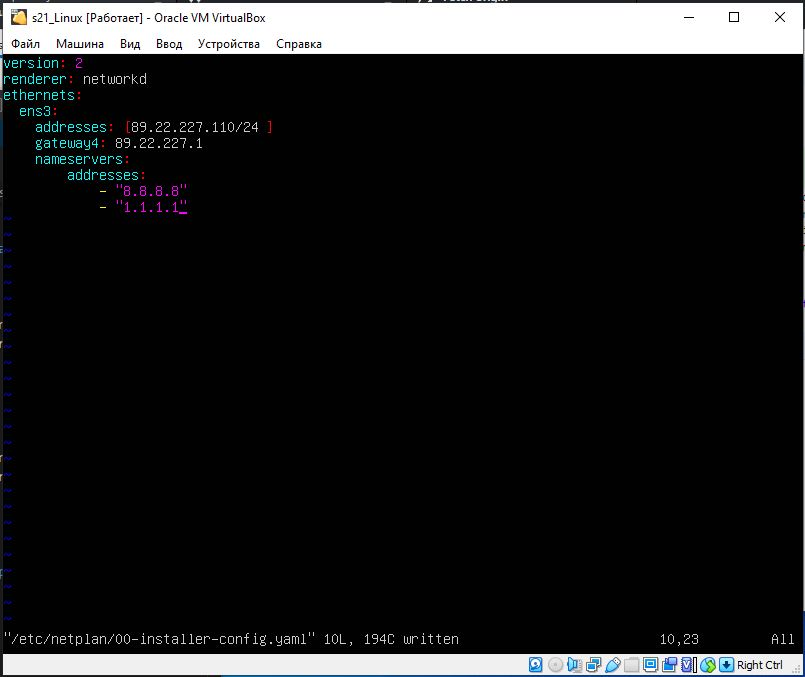
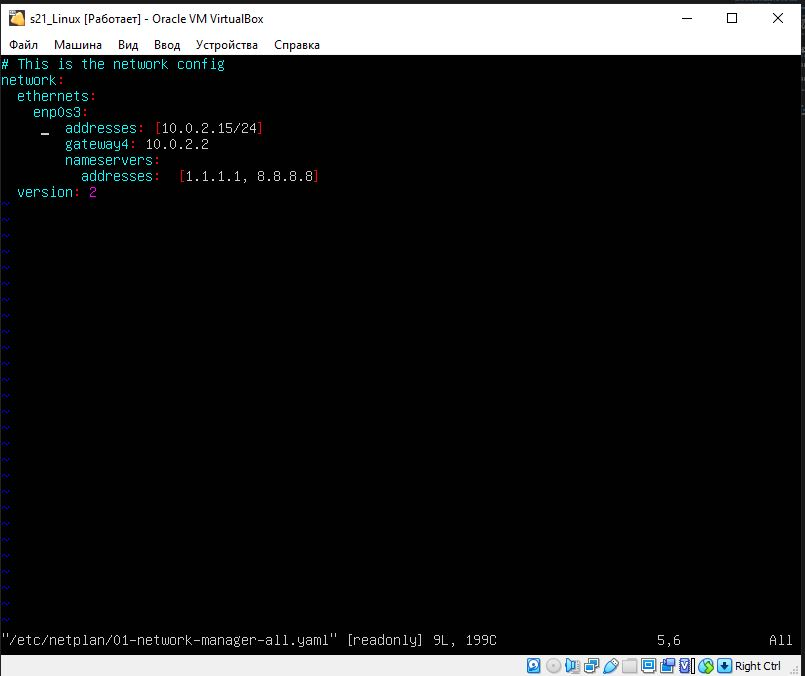
fixed netplan
3

diff --git a/Readme.md b/Readme.md
@@ -36,11 +36,15 @@ cat /etc/passwd
 
 ![ip-a](img/ip-a.JPG)
 
+##### In the report give an explanation for the presence of the lo interface.
+
 Interface lo can be used by network client software to communicate with a server application located on the same computer. That is, if you specify the URL http://127.0.0.1/ or http://localhost/ in the web browser on the computer where the web server is running, it takes you to that computer's web site. This mechanism works without any active connection, so it is useful for testing services without compromising their security as with remote network access.
 
 ##### Use the console command to get the ip address of the device you are working on from the DHCP server.
 
 ![wget](img/wget.JPG)
+
+Decode DHCP in the report.
 
 Dynamic Host Configuration Protocol (DHCP) is a network management protocol used to automate the process of configuring devices on IP networks, thus allowing them to use network services such as DNS, NTP, and any communication protocol based on UDP or TCP. 
 
@@ -55,3 +59,25 @@ internal IP address
 A internal IP address is a range of non-internet facing IP addresses used in an internal network. Internal IP addresses are provided by network devices, such as routers, using network address translation.
 
 ![an_internal_ip](img/internal.JPG)
+
+##### Set static (manually set, not received from DHCP server) ip, gw, dns settings (use public DNS servers, e.g. 1.1.1.1 or 8.8.8.8).
+
+sudo vim /etc/netplan/00-installer-config.yaml
+
+![first](/img/vim_first.JPG)
+make some changes
+![changed](/img/changed.JPG)
+after all need to write "sudo netplan apply" to console, then reboot.
+
+##### Reboot the virtual machine. Make sure that the static network settings (ip, gw, dns) correspond to those set in the previous point.
+Reboot the virtual machine. Make sure that the static network settings (ip, gw, dns) correspond to those set in the previous point. 
+
+ping ya.ru
+ping 8.8.8.8
+
+![ping_ya](/img/ping_ya.JPG)
+![ping_1](/img/ping_1.JPG)
+
+"ip r" to console, to check that our settings was saved.
+
+![ip_r](/img/recheck.JPG)
